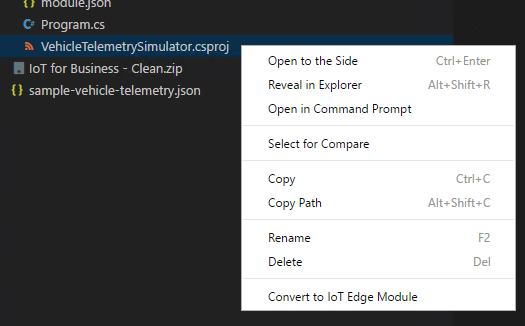
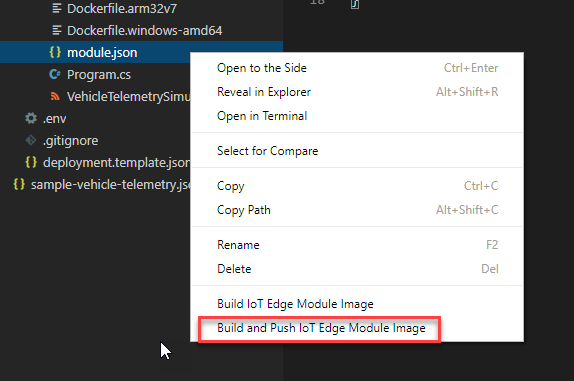
UX Changes and code changes

diff --git a/Hands-on lab/HOL step-by-step - IoT for business.md b/Hands-on lab/HOL step-by-step - IoT for business.md
@@ -1218,11 +1218,11 @@ In this task, you will use Visual Studio Code to complete the custom C\# IoT Edg
     docker login -u <username>    -p <password>    <Login server>
     ```
 
-12. To build the project, right-click the **VehicleTelemetrySimulator.csproj** file in the Explorer and select **Convert to IoT Edge Module**. This process compiles the module, creates a module.json file, and creates a dockerfile used to create the Docker image.
+12. To build the project and Push it to the IoT Edge Module Image, right-click the **module.json** file in the Explorer and select **Build and Push IoT edge Module Image**. 
 
     ![Right-click the VehicleTelemetrySimulator.csproj file, then select Convert to IoT Edge Module.](images/Hands-onlabstep-by-step-IoTforbusinessimages/media/image89.png "Convert to IoT Edge module")
 
-13. In the pop-up text box at the top of the VS Code window, enter the image name. For example: \<your container registry address\>/vehicle-telemetry-simulator. The Azure Container Registry address is the same as the login server that you copied from your registry. It should be in the form of \<your container registry name\>.azurecr.io. 
+13. In the pop-up text box at the top of the VS Code window, enter the image name. For example: \<your container registry address\>/vehicle-telemetry-simulator. The Container Registry address is the same as the login server that you copied from your registry. It should be in the form of \<your container registry name\>.azurecr.io. 
 
 **Make note of the image name**, including the registry path. This will be used later.
 
